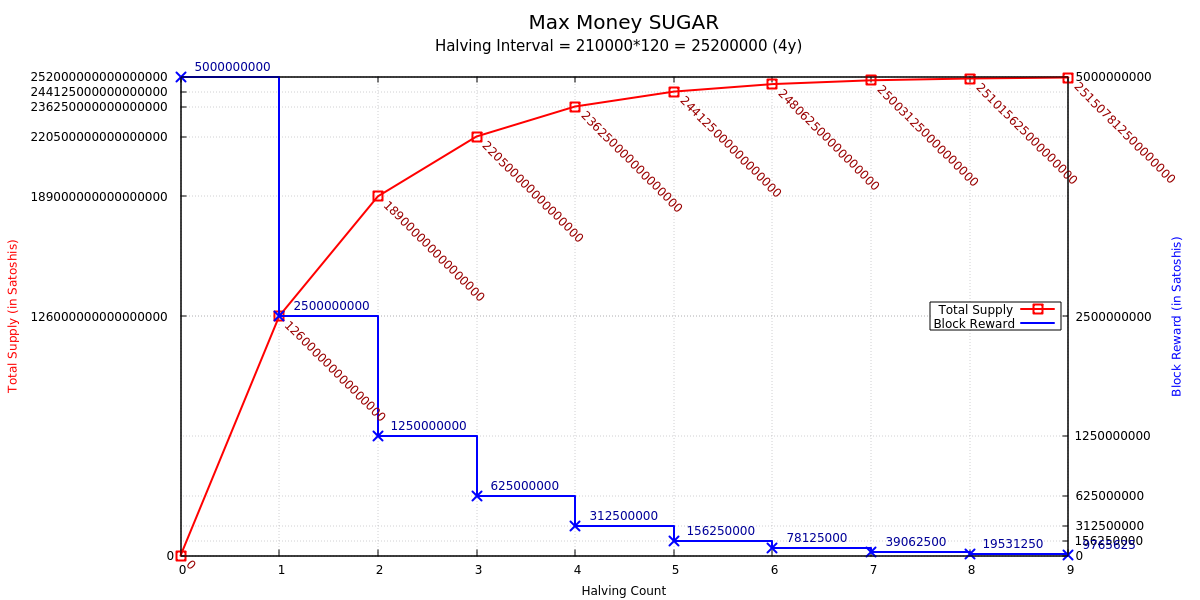
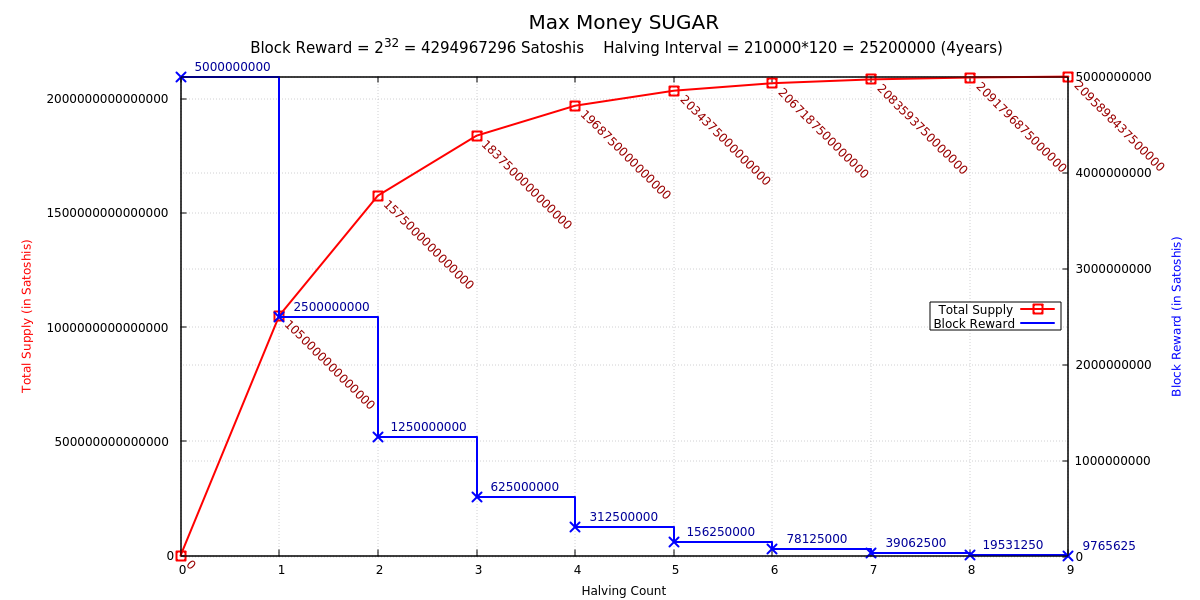
fix: perfect max_money in BTC: 2099999997690000 Satoshis

diff --git a/max_money/max_money.py b/max_money/max_money.py
@@ -18,17 +18,21 @@ sys.stdout=open("max_money.csv", "w")
 3.9954337899543378996
 """
 
+# note - There are a maximum of 2,099,999,997,690,000 Bitcoin in Satoshis
+# Total BTC is 2099999997690000 Satoshis
+# https://en.bitcoin.it/wiki/Bitcoin
+
 # setup
 
 halving_count = np.int64(0)
 total = np.float128(0)
 
 # current_reward = np.float128(50 * 10**8) # BTC float128
-# current_reward = np.int64(50 * 10**8) # BTC int64
-current_reward = np.float128(4294967296) # 2^32 = 42 9496 7296 Satoshis
+current_reward = np.int64(50 * 10**8) # BTC int64
+# current_reward = np.float128(4294967296) # 2^32 = 42 9496 7296 Satoshis
 
 reward_interval = np.int64(210000) # BTC about 4 years
-reward_interval = np.int64(210240) # BTC exactly 4 years: 3600*24/600*365*4 = 210240
+# reward_interval = np.int64(210240) # BTC exactly 4 years: 3600*24/600*365*4 = 210240
 # reward_interval = np.int64(210000 * 120) # 210000*120 = 25200000 is around every 4 years with a 5 seconds block interval
 
 # blocktime = np.int64(5) # 5 seconds for sugarchain
